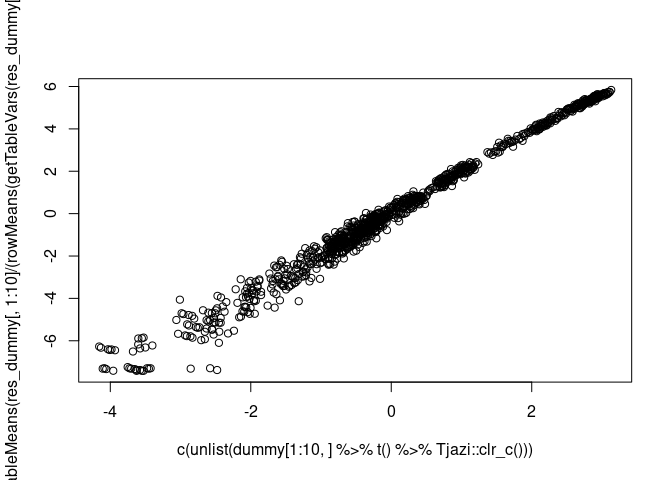
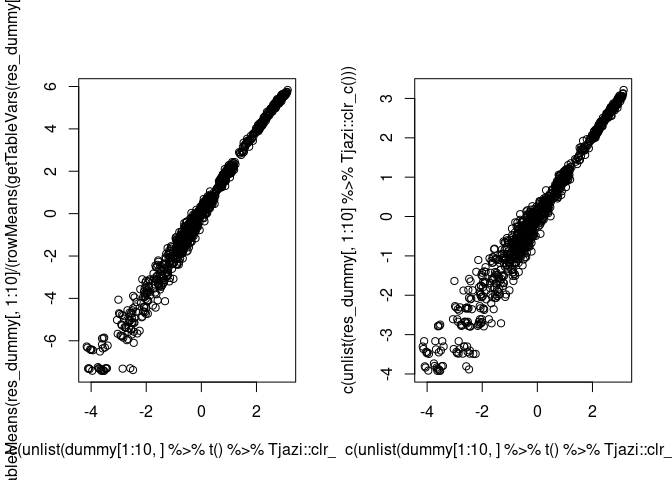
update.

diff --git a/README.md b/README.md
@@ -34,7 +34,7 @@ knitr::kable(t(data.frame("observed" =
 
 |              |      mean |        sd |
 |:-------------|----------:|----------:|
-| observed     | -8.646175 | 0.0859372 |
+| observed     | -8.645030 | 0.0861364 |
 | approximated | -8.645706 | 0.0859221 |
 
 ``` r
@@ -153,6 +153,9 @@ plot(x = c(unlist(Tjazi::clr_c(data))),
 
 <img src="README_files/figure-gfm/comparing CLR to approx entire table-2.png" width="100%" />
 
+Dividing by the variance of the CLR transformed data before transforming
+reduces dispersion.
+
 ``` r
 set.seed(12345)
 
@@ -190,16 +193,8 @@ res_dummy = apply(dummy, 1,FUN = function(x){
   
 })
 
-par(1,2)
-```
+par(mfrow = c(1,2))
 
-    ## [[1]]
-    ## NULL
-    ## 
-    ## [[2]]
-    ## NULL
-
-``` r
 plot(c(unlist(dummy[1:10,] %>% 
                 t() %>% 
                 Tjazi::clr_c() )),
@@ -209,11 +204,8 @@ plot(c(unlist(dummy[1:10,] %>%
                        (rowMeans(getTableVars(res_dummy[,1:10]))))
           )
 )
-```
 
-![](README_files/figure-gfm/reduce%20overdispersion-1.png)<!-- -->
 
-``` r
 plot(c(unlist(dummy[1:10,] %>% 
                 t() %>% 
                 Tjazi::clr_c() )),
@@ -222,4 +214,4 @@ plot(c(unlist(dummy[1:10,] %>%
                 Tjazi::clr_c() )))
 ```
 
-![](README_files/figure-gfm/reduce%20overdispersion-2.png)<!-- -->
+![](README_files/figure-gfm/reduce%20overdispersion-1.png)<!-- -->
